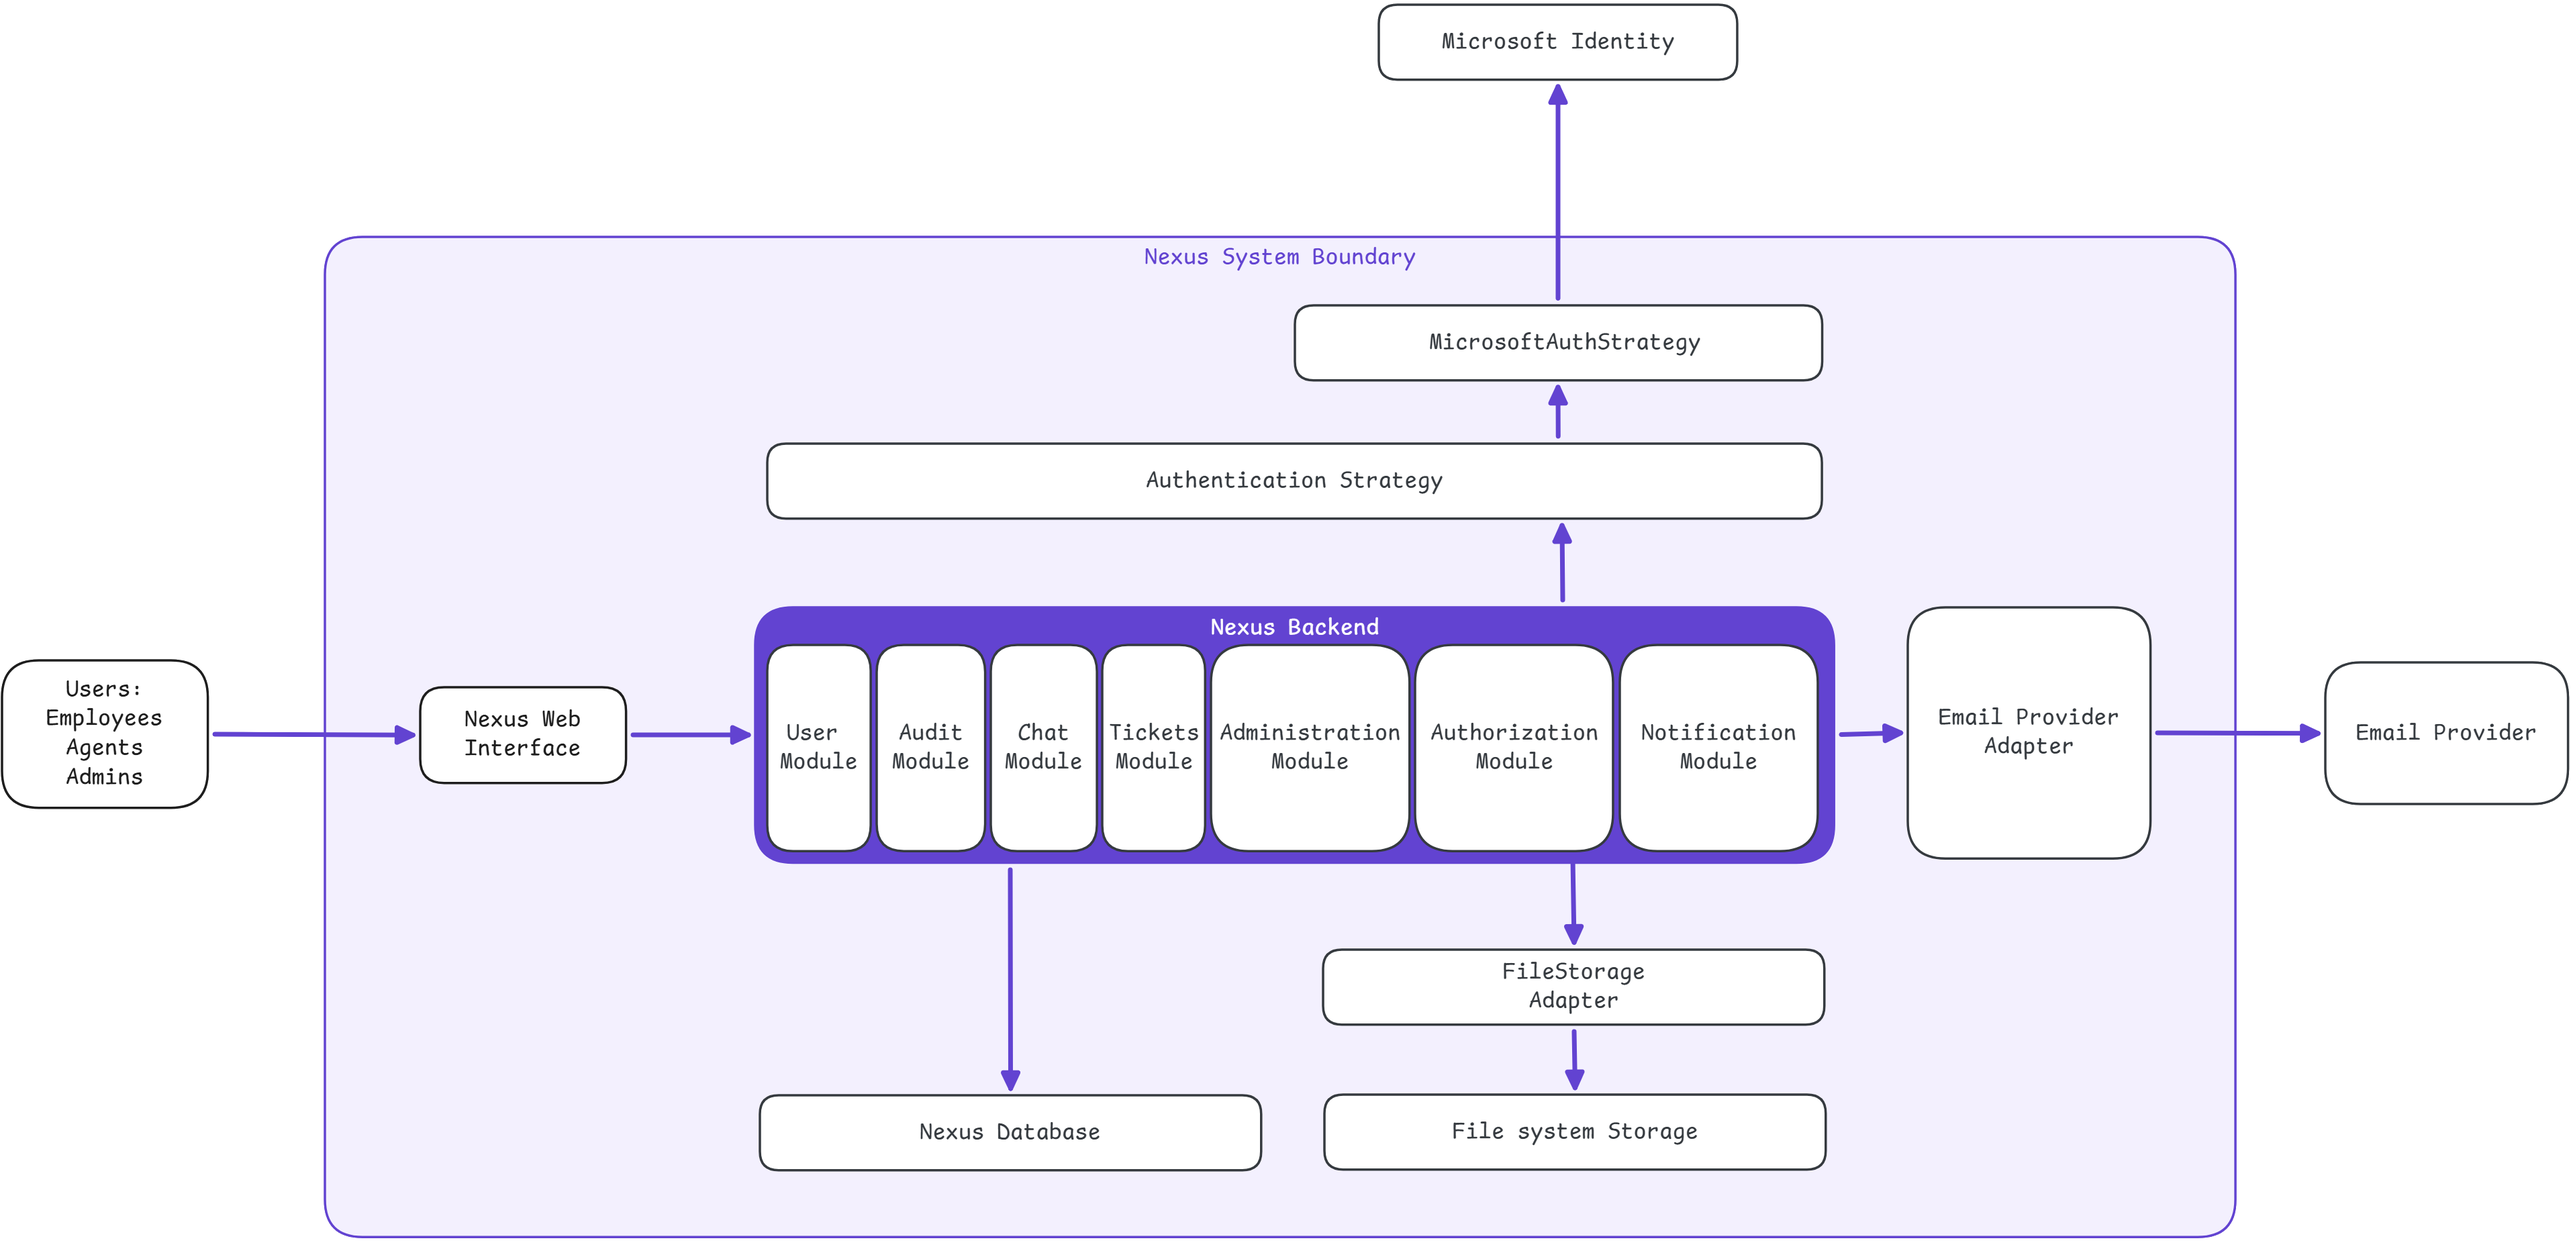
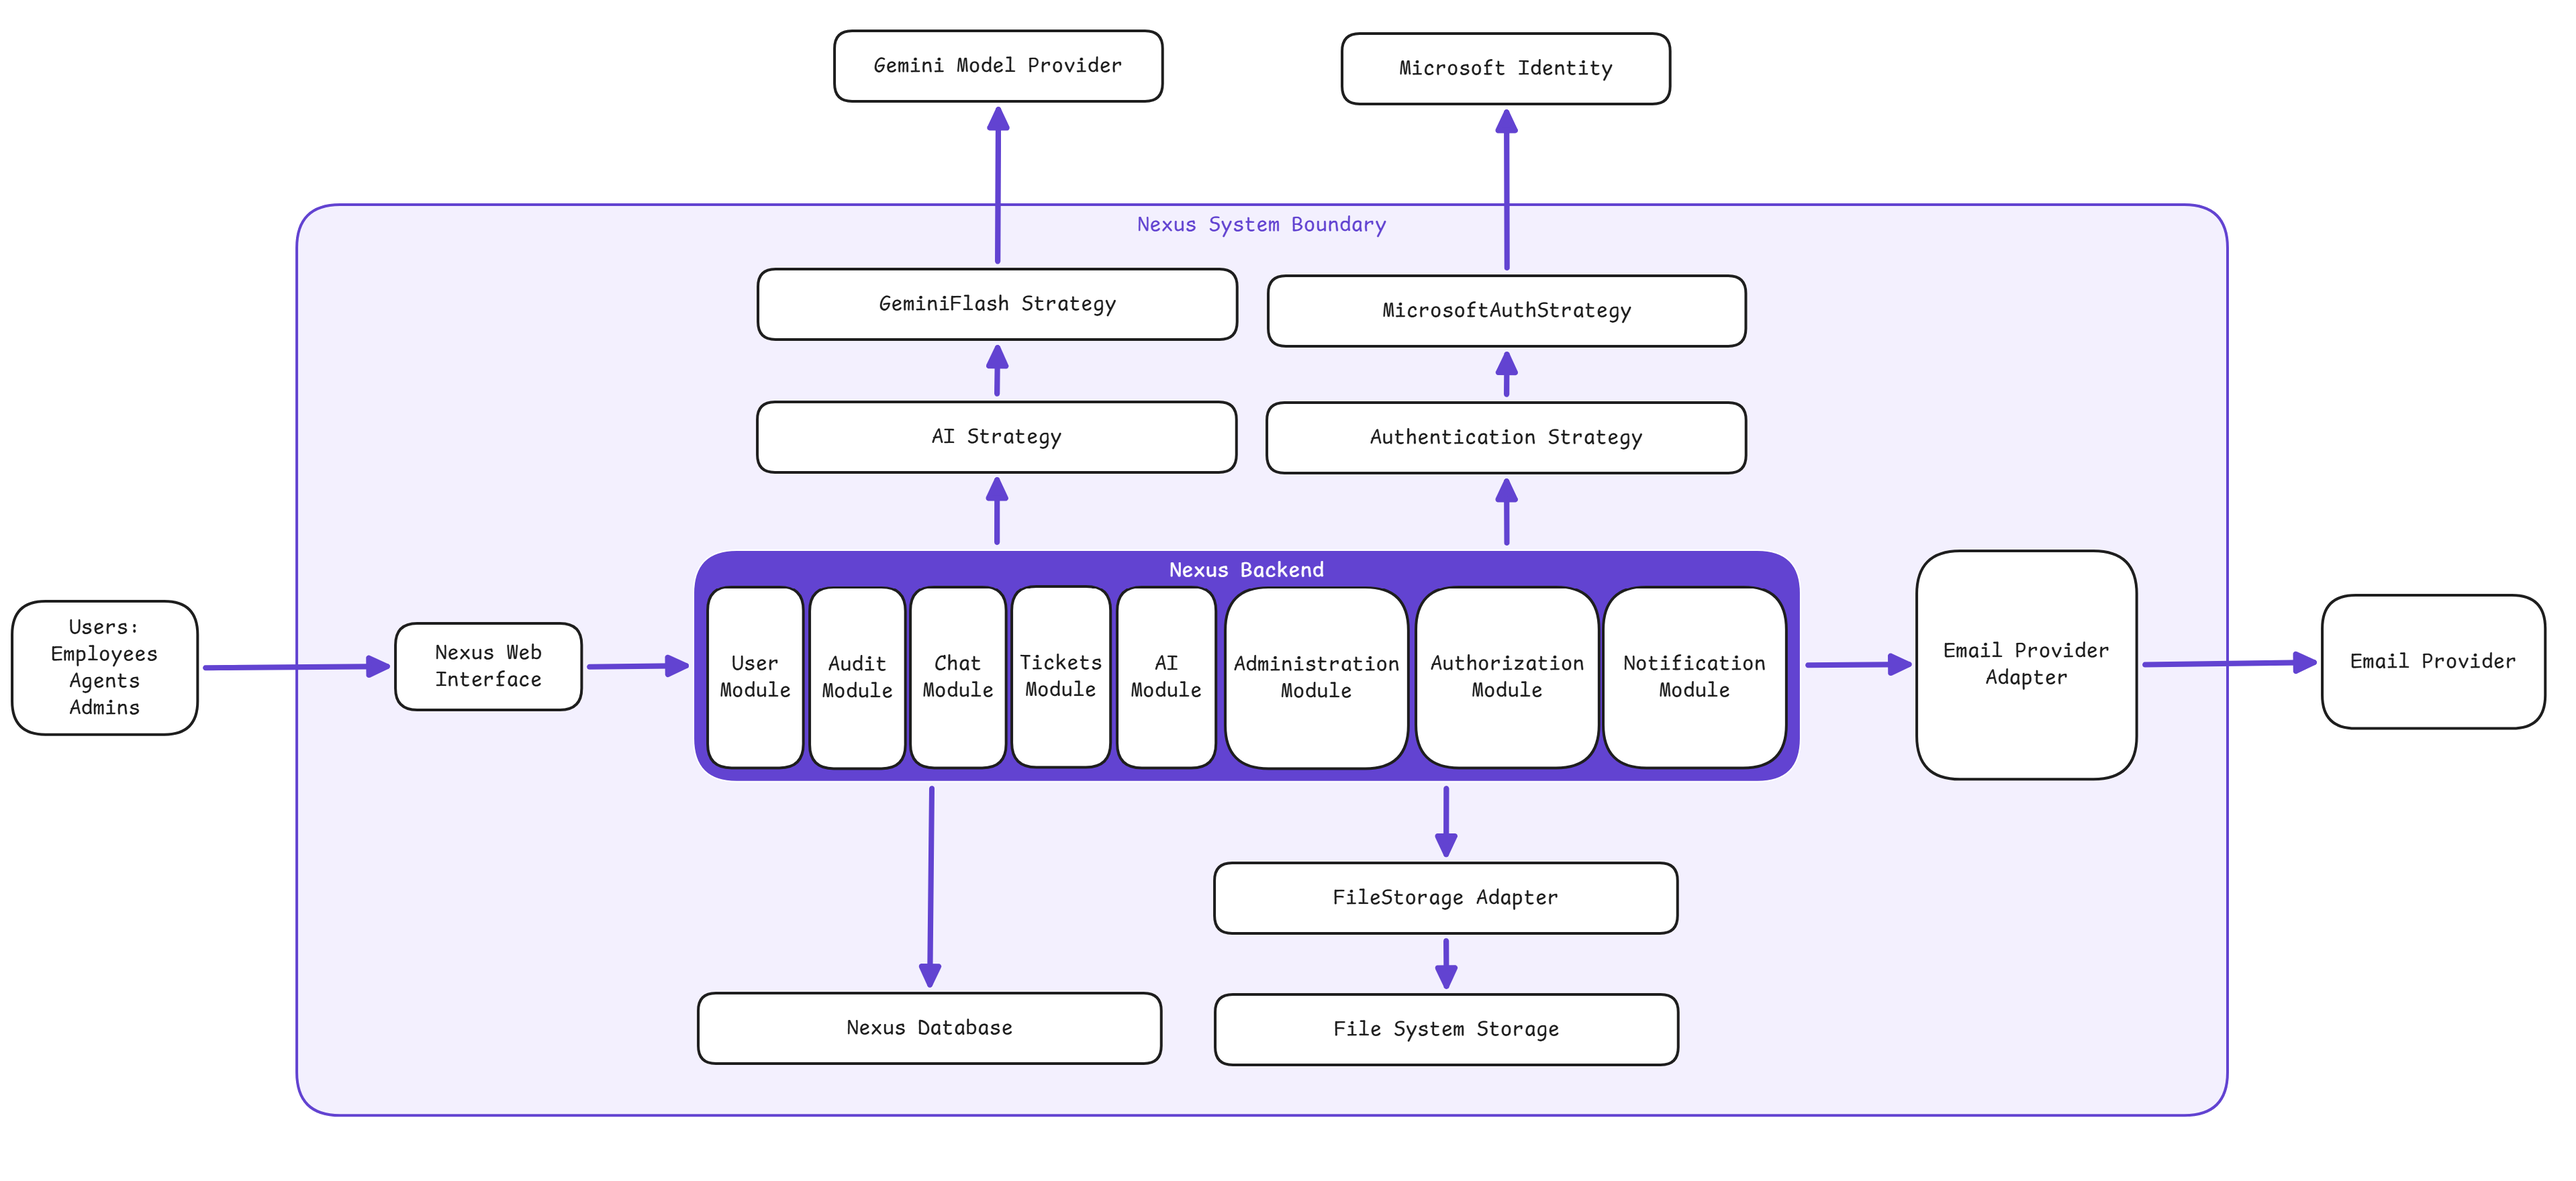
docs: updated architecture.md to add AI feature

diff --git a/docs/architecture.md b/docs/architecture.md
@@ -29,6 +29,10 @@ Handles user authentication through the companies existing identity providers, N
 #### Email Provider
 Sends email notifications generated by Nexus
 
+#### AI Provider
+Provides AI reasoning for the AI assistant functionality, Nexus will use Gemini Flash Model with the free tier as its initial model.
+Additionally, Nexus backend will provide an interface for the AI to call tools in case it needs access to authorized data.
+
 ### Architecture Choice
 While designing Nexus's system, 3 main types of architectures were considered:
 - Monolith: Simple, cheap and easy to deploy, but it can become pretty hard to maintain as the application grows as functions become dependent and tightly coupled.
@@ -65,6 +69,8 @@ The authorization module provides the check for roles but not resources as resou
 - Email Provider Adapter: Provides a simple API for interacting with Email providers regardless of the specific email provider used
 
 - FileStorage Adapter: Provides a simple interface for file storing functions and file attachment handling.
+
+- AI Module: Responsible for orchestrating communication with the AI Provider and exposing preset tools for the AI to call. For example, the module exposes a getTicket tool that the AI can call with the specific ticket number to get info about it. Currently, the AI is limited to finding tickets by their number as advanced semantic database searches require RAG implementations which are outside the scope of Nexus.
 
 ![Module Connections](assets/Module%20Connections.png)
 
@@ -126,7 +132,18 @@ Nexus should correctly handle errors related to the Email Provider API:
 - Email provider unavailable: Nexus will temporarily be unable to send email notifications. The failure should not affect the main server functions (Ticket management, chats, etc...). Failed notifications are dropped and are not persisted or resent.
 - Email rejected by provider: The provider may reject an email because of an invalid recipient address, invalid request, exceeded limits, or other ... Nexus should record the failure and should not retry requests that are known to be invalid.
 
-The Email Provider remains a planned external dependency. SendGrid delivery and an email delivery API are not currently implemented; see [email-notifications.md](agentic-workflows/email-notifications.md).
+#### AI Provider
+Nexus uses a third party AI provider to power its AI assistant. The backend communicates with the AI provider through its API, sending user messages and the necessary context and receiving generated responses or requests to use available Nexus tools.
+
+Google gemini flash is used as the AI model for the initial implementation.
+The AI provider does not have direct access to the Nexus database. When the AI requires system information, such as ticket details, departments or ticket history, it requests the appropriate tool from the Nexus backend. The backend is responsible for executing the operation while applying the same authentication, authorization and business rules as any other request
+
+Nexus should correctly handle errors related to the AI Provider:
+
+- Network timeout or connection reset: Nexus should retry the request up to 3 times. If all attempts fail, the failure should be logged and the user should be notified of the AI failure
+- AI provider unavailable: This should not affect any of the main Nexus functionalities. Users should still be able to use Nexus normally without the AI assistant.
+- AI provider rejects the request: Requests may be rejected because of invalid requests, exceeded API limits, unavailable models or other provider errors. Nexus should record the failure and notify the user that the assistant could not process the request
+- Invalid or unexpected AI response: AI generated responses and tool requests should be validated by the Nexus backend before being processed. Invalid tool requests or malformed responses should be rejected and should not result in system actions.
 
 ### Security Architecture and Trust Boundaries
 ![Trust Boundaries Diagram](./assets/Trust%20Boundaries.png)
@@ -138,7 +155,7 @@ This boundary seperates the web application from the backend, users are untruste
 - File validation (Size limit, MIME type, and extension)
 
 #### Backend to external services
-Seperates the backend from third party services, in this case, the identity provider and email provider.
+Seperates the backend from third party services, in this case, the identity provider, AI provider and email provider.
 Third party services should not be blindly trusted, every interaction should be validated with a trusted token from the services. Additionally, communication should happen over secure HTTPS requests. API keys and secrets should not be stored in backend source code.
 
 ### Communication Architecture
@@ -194,6 +211,9 @@ The two-year audit purge, priority reminder worker, email delivery worker, and o
 
 #### Ticket Handoff Flow
 ![Ticket handoff Flow Diagram](./assets/Ticket%20Handoff%20Flow%20Diagram.png)
+
+#### AI Communication Flow
+![AI Communication Flow](./assets/AI%20Sequence%20Diagram.png)
 
 ### Reliability Practices
 - Errors should be controlled and not crash the entire system
